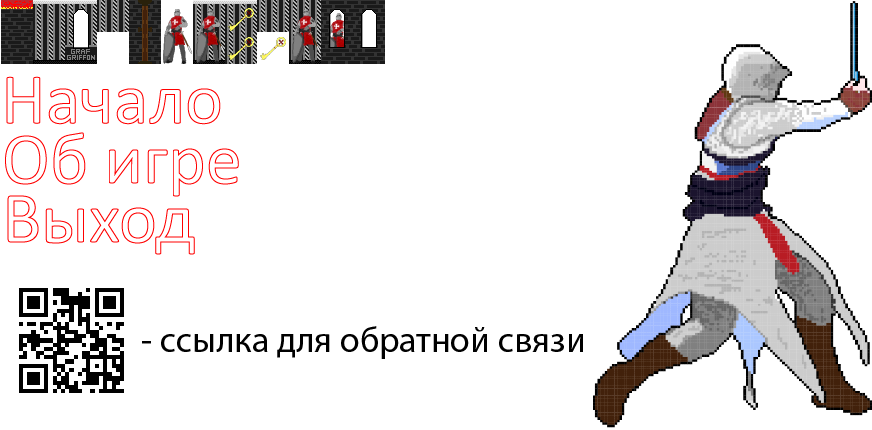
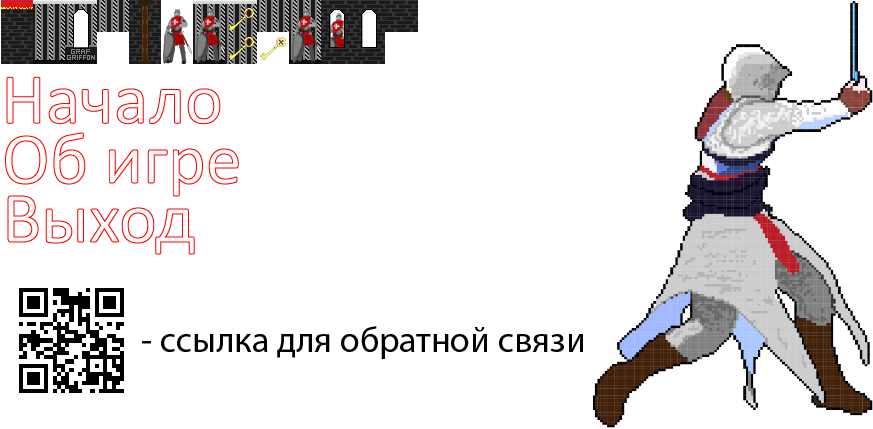
update and fix graphics bug

diff --git a/ProjectKursach/main.cpp b/ProjectKursach/main.cpp
@@ -14,7 +14,7 @@
 using namespace sf;
 
 float offsetX = 0, offsetY = 0;
-double hp = 100;
+int hp = 100;
 Font font;
 
 const int H = 30, W = 50;
@@ -23,7 +23,7 @@ int score = 0, positionJump1 = 0, positionJump2 = 0, counter = 0;
 String TileMap[H];
 std::map <char, IntRect> spriteMap = { 
 	{'B', IntRect(1, 0, 32, 32)},
-	{'b', IntRect(1, 32, 32, 32)},
+	{'b', IntRect(384, 0, 32, 32)},
 	{'+', IntRect(97, 32, 32, 32)},
 	{'0', IntRect(347, 120, 32, 32)},
 	{'1', IntRect(65, 0, 32, 32)},
@@ -159,7 +159,12 @@ void printInfo(RenderWindow& window) {
 	text.setStyle(Text::Bold);
 	Text textHp("", font, 35);
 	textHp.setStyle(Text::Bold);
-	textHp.setFillColor(Color::Yellow);
+	if (hp <= 100 && hp > 80) { textHp.setFillColor(sf::Color(255, 255, 0)); }
+	if (hp <= 80 && hp > 60) {textHp.setFillColor(sf::Color(255, 215, 0));}
+	if (hp <= 60 && hp > 45) { textHp.setFillColor(sf::Color(255, 265, 0));}
+	if (hp <= 45 && hp > 30) { textHp.setFillColor(sf::Color(255, 140, 0));}
+	if (hp <= 30 && hp > 15) { textHp.setFillColor(sf::Color(255, 69, 0));}
+	if (hp <= 15) { textHp.setFillColor(sf::Color(255, 0, 0));}
 	std::ostringstream scorePlayer, hpPlayer;
 	scorePlayer << score;
 	hpPlayer << hp;
